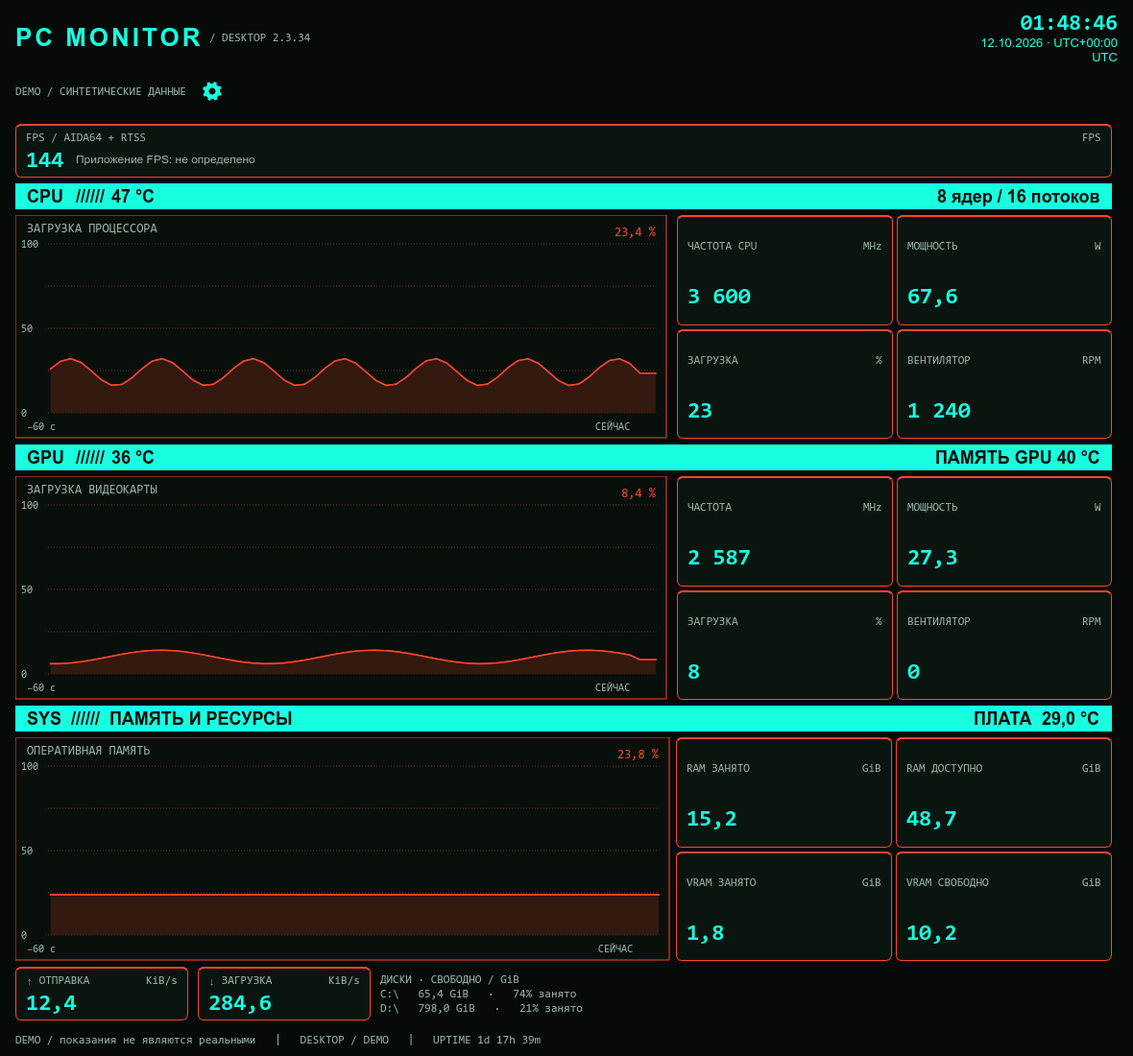
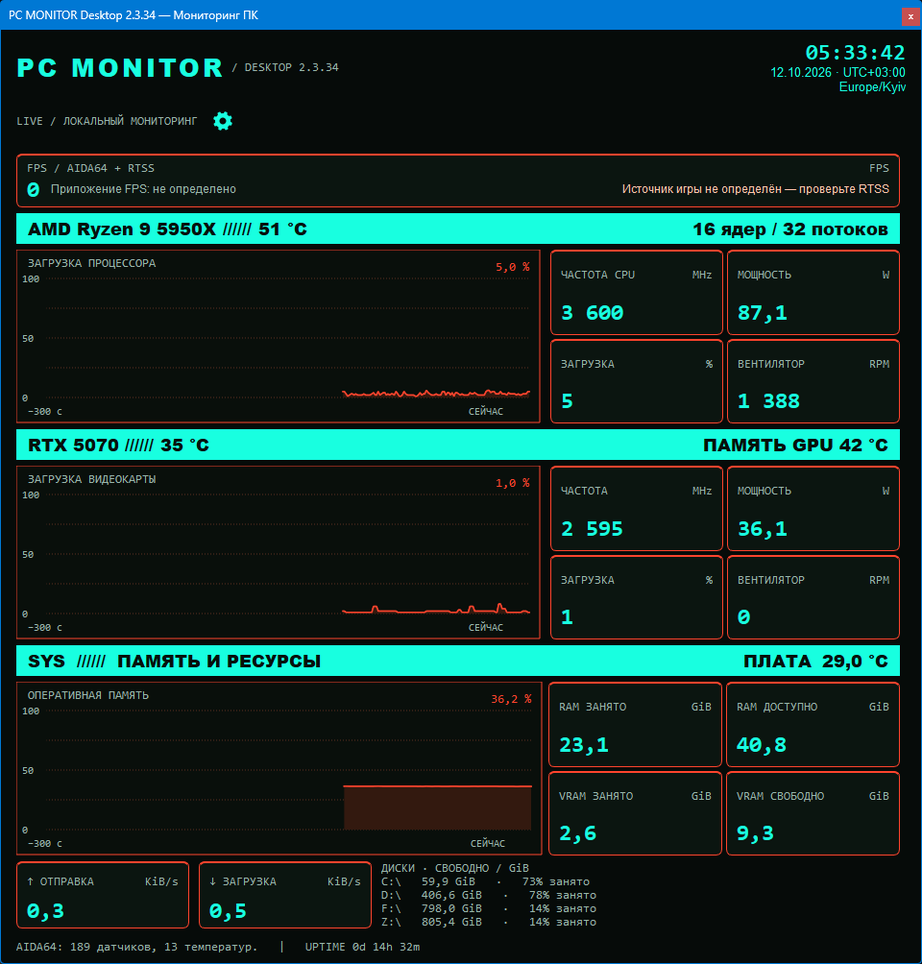
Update README and screenshots

diff --git a/README.md b/README.md
@@ -1,54 +1,244 @@
 # PC Monitor
 
-**2.3.34 · Windows 10/11 x64 · Разработчик: ZIKKURAT**
+**Версия 2.3.34 · Windows 10/11 x64 · Разработчик — ZIKKURAT**
 
-Локальный мониторинг CPU, GPU, температур, RAM/VRAM, сети, дисков и FPS. Нативный интерфейс PySide6: русский, украинский и английский языки, настраиваемые карточки, 10 тем и GIF-персонажи. Программа не отправляет телеметрию и не управляет разгоном или вентиляторами.
+Нативная программа для локального мониторинга компьютера: процессор, видеокарта, температуры, память, сеть, диски и FPS. Настраиваемые карточки, русский/украинский/английский интерфейс, цветовые и аниме-темы, GIF-персонажи и визуальные эффекты.
 
-> **Важно:** обычный `build_windows.bat` после успешной установки EXE **полностью удаляет распакованную папку исходников**. Архивы и личные файлы храните вне неё. Для Git-клона/разработки используйте **`build_windows.bat --keep-sources`**.
+**[Скачать выпуск](https://github.com/ZIKKURAToffc/PC-Monitor/releases)** · [Подробная установка](docs/INSTALL.md) · [Руководство пользователя](docs/USAGE.md) · [Все параметры](docs/PARAMETERS.md) · [Решение проблем](docs/TROUBLESHOOTING.md)
 
-![Обзор ресурсов](docs/images/overview.png)
+> **Важно:** обычный `build_windows.bat` после успешной сборки и установки EXE **удаляет всю распакованную папку исходников**. ZIP и личные файлы храните вне неё. Для Git-клона и разработки используйте **`build_windows.bat --keep-sources`**.
 
-## Быстрый старт
+## Возможности
 
-### Готовый EXE
+- **CPU:** температура, частота, загрузка, мощность, обороты вентилятора и график загрузки.
+- **GPU:** основная температура, температура видеопамяти, частота ядра, загрузка, мощность и вентилятор.
+- **Система:** температура материнской платы, занятая/доступная RAM и VRAM, сеть и свободное место на дисках.
+- **FPS:** чтение опубликованного показания, в том числе AIDA64/RTSS, и имени приложения из доступных метаданных RTSS.
+- **Настройка панели:** выбор совместимого источника, изменение подписи, скрытие показателя и до 128 собственных карточек.
+- **Оформление:** 10 тем, 16 персонажей; отдельное отключение персонажей, эффектов и анимации.
+- **Окно:** сохранение положения/размера, перетаскивание за шапку, полный экран без рамки, режим поверх других окон и трей.
+- **Дополнительно:** добровольный автозапуск после входа Windows, экспорт JSON, диагностика и локальный журнал ошибок.
 
-1. Откройте **Releases** этого репозитория и скачайте приложенный автором `PC-Monitor.exe`, если он опубликован. GitHub **Source code (zip)** содержит исходники, не установщик.
-2. Сохраните EXE в постоянную папку, например `D:\PC-Monitor\PC-Monitor.exe`, и запустите. Python для готового EXE не нужен.
-3. В **⚙ → Подключить датчики** настройте AIDA64 либо LHM.
-4. Для FPS дополнительно настройте RTSS и экспорт FPS в AIDA64.
+Наличие конкретного датчика зависит от оборудования, драйверов и внешнего источника. Программа не управляет охлаждением, напряжением или разгоном и не отправляет телеметрию.
 
-### Сборка из исходников
+## Скриншоты
 
-1. Установите **Python 3.10+ x64** с доступом из PATH; рекомендован проверенный Python 3.13.
-2. Распакуйте исходники в отдельную папку, например `D:\Downloads\pc-monitor-desktop-v2.3.34`. **Не распаковывайте прямо в `D:\PC-Monitor`: это папка назначения EXE.**
-3. Запустите **build_windows.bat**. Если проект нужно сохранить, выполните **`build_windows.bat --keep-sources`** из терминала.
-4. EXE появится в **`X:\PC-Monitor\PC-Monitor.exe`**, где X — диск проекта. Создаётся ярлык; временная среда сборки очищается.
+### Главная панель
 
-При обычной успешной сборке исходники удаляются. При ошибке компиляции/копирования они остаются; при блокировке удаления выводится предупреждение. Интернет нужен для установки зависимостей при сборке, но не для локального чтения датчиков.
+Локальные показания CPU/GPU, память, сеть и диски. Значения на снимке — пример, а не гарантированные показания для любого ПК. FPS = 0 означает, что источник передал ноль; это не расчёт по загрузке GPU.
 
-[Подробная установка](docs/INSTALL.md)
+![Главная панель PC Monitor 2.3.34](docs/images/overview.png)
 
-## Управление и возможности
+### Меню управления
 
-Все команды — в меню **⚙**. **F11** — полный экран, **Escape** — выход из него, **Space** — пауза/продолжение. Окно перемещается за шапку и запоминает положение/размер.
+Все основные действия находятся в меню шестерёнки: разделы, пауза, экспорт, подключение датчиков, настройка панели, общий конфиг, полный экран и компактный режим.
 
-- Частота, загрузка, мощность, температуры и вентиляторы CPU/GPU при наличии источника.
-- Температура памяти GPU и платы, история загрузки, подробные таблицы датчиков.
-- Выбор источников, переименование и скрытие карточек; до 128 своих карточек.
-- Имя приложения RTSS при доступных метаданных; FPS не вычисляется из загрузки GPU.
-- Видимое окно с треем, режим поверх окон, добровольный автозапуск после входа Windows.
-- Экспорт JSON, локальная диагностика; отключаемые анимация, персонажи и эффекты.
+![Меню управления PC Monitor](docs/images/menu.png)
 
-[Руководство пользователя](docs/USAGE.md) · [Все параметры](docs/PARAMETERS.md) · [Решение проблем](docs/TROUBLESHOOTING.md)
+### Общие настройки
 
-## Ограничения
+Язык, названия оборудования, оформление, интервалы обновления, история, порог температуры, Topmost и автозапуск.
 
-AIDA64/LHM/RTSS и драйверы не входят в EXE. Наличие датчиков зависит от оборудования и экспорта. **«—» — недоступное значение; 0 — опубликованный ноль.** Частая перерисовка не ускоряет внешний источник. Совместимость RTSS с играми/античитом не гарантируется; приложение само не внедряется в процессы игры.
+![Общие настройки PC Monitor](docs/images/settings.png)
 
-Проверено **372 автоматическими тестами**. Реальную Windows-компиляцию и живые Windows-источники в среде разработки этого пакета не запускали: перед релизом выполните [Windows-чек-лист](AUDIT-2.3.34.md). Linux используется для проверки исходников; Windows-источники/сборка EXE на нём недоступны.
+### Датчики панели
 
-## Разработка и публикация
+Выбор источника каждого показателя. Списки обновляются автоматически; изменения применяются кнопкой **Применить**.
 
-[Тестирование](TESTING.md) · [Изменения](CHANGELOG.md) · [Публикация на GitHub](docs/PUBLISHING.md) · [Источники изображений/GIF](ASSET-CREDITS.md)
+![Назначение датчиков панели PC Monitor](docs/images/panel-sensors.png)
 
-**Лицензия кода пока не выбрана автором.** Публичный GitHub не означает автоматически MIT/open source. Права на аниме-изображения/GIF принадлежат сторонним правообладателям: ссылки на источники не являются разрешением на распространение. Перед публичным выпуском выберите лицензию собственного кода и урегулируйте права на материалы либо замените их разрешёнными.
+### Выбор стиля
+
+Предпросмотр оформления и переключатели персонажей, эффектов и анимации. Числа в предпросмотре стиля — демонстрационные, не текущие аппаратные измерения.
+
+![Выбор стиля интерфейса PC Monitor](docs/images/style-picker.png)
+
+## Что требуется для корректной работы
+
+| Что установить | Когда требуется |
+|---|---|
+| **Windows 10/11 x64** | Основная платформа готового EXE. |
+| **Драйверы чипсета/материнской платы и видеокарты** | Используйте подходящие актуальные драйверы производителя оборудования. |
+| **AIDA64 Extreme или LibreHardwareMonitor** | Источник аппаратных температур, мощности и вентиляторов. Для этих показаний оба одновременно не обязательны. |
+| **RTSS + экспорт FPS в AIDA64** | Стандартный путь отображения FPS в играх для этой версии. |
+| **Python 3.10+ x64 и интернет** | Только для сборки/запуска исходников. Для готового EXE Python не нужен. |
+
+Основные данные ОС — загрузка CPU, RAM, сеть и свободное место — собираются программой через psutil. Темы, GIF и необходимые Python/Qt-библиотеки входят в собранный EXE. **AIDA64/LHM/RTSS и драйверы в EXE не входят** и устанавливаются отдельно.
+
+**MSI Afterburner не является обязательным требованием PC Monitor.** Если RTSS установлен вместе с ним, для FPS важны работа самого RTSS и экспорт в AIDA64.
+
+Внешние источники должны оставаться запущенными. Автозапуск PC Monitor не запускает AIDA64/LHM/RTSS за пользователя.
+
+## Установка
+
+### Вариант 1 — готовый EXE
+
+1. Откройте **[Releases](https://github.com/ZIKKURAToffc/PC-Monitor/releases)** и выберите нужную версию.
+2. Скачайте прикреплённый **PC-Monitor.exe** из **Assets**, если автор его опубликовал. **Source code (zip)** — исходники, не готовый установщик.
+3. Поместите EXE в постоянную папку, например `D:\PC-Monitor\PC-Monitor.exe`.
+4. Запустите двойным щелчком и настройте источник через **⚙ → Подключить датчики**.
+
+Python и компиляция не нужны. Не запускайте файл из самого ZIP. Для распаковки встроенных onefile-ресурсов программа использует системный TEMP, поэтому доступ к нему необходим. Ярлык после скачивания отдельного EXE можно создать вручную: сам EXE его не создаёт.
+
+### Вариант 2 — сборка и установка через BAT
+
+1. Скачайте **Source code (zip)** из Release либо исходники через **Code → Download ZIP**.
+2. Установите **Python 3.10+ x64**, включив **Add Python to PATH**. Рекомендован Python 3.13, с которым проверялись тесты.
+3. Сохраните ZIP вне будущей папки исходников.
+4. Распакуйте проект отдельно, например в `D:\Downloads\PC-Monitor-2.3.34`.
+5. Откройте распакованную папку и запустите **build_windows.bat**.
+6. Дождитесь окончания; интернет нужен для установки зависимостей.
+
+Сценарий автоматически:
+
+- создаёт временную среду Python;
+- устанавливает зависимости и PyInstaller;
+- собирает один **PC-Monitor.exe** с ресурсами;
+- проверяет целостность копии перед заменой прежнего EXE;
+- устанавливает файл в **`X:\PC-Monitor\PC-Monitor.exe`**, где X — диск проекта;
+- создаёт или обновляет ярлык на рабочем столе текущего пользователя;
+- очищает временные файлы сборки;
+- после успешной обычной сборки **удаляет всю распакованную папку исходников**.
+
+Например, проект на диске D: → **`D:\PC-Monitor\PC-Monitor.exe`**.
+
+> **Не распаковывайте исходники прямо в `X:\PC-Monitor`: это папка назначения EXE. Всё внутри удаляемой source-папки — включая .git, старую .venv, помещённые туда архивы и личные файлы — может быть удалено. Сохраняйте резервные ZIP снаружи.**
+
+При ошибке компиляции/копирования исходники и предыдущий установленный EXE сохраняются. Если Windows блокирует очистку, сценарий сообщает об этом; может остаться часть исходной папки. Ошибка создания ярлыка не отменяет успешную установку EXE.
+
+Для записи в корень диска может понадобиться дополнительное право. При отказе доступа можно запустить доверенный BAT от администратора. Не отключайте антивирус или защиту ОС ради сборки. UNC/сетевой путь проекта не поддерживается: используйте локальный диск с буквой.
+
+### Сборка с сохранением исходников
+
+Откройте терминал в папке проекта и выполните:
+
+```bat
+build_windows.bat --keep-sources
+```
+
+EXE и ярлык будут созданы, временная среда очистится, но проект останется. **Для клонированного Git-репозитория используйте этот вариант**, иначе обычная успешная сборка удалит репозиторий вместе с `.git`.
+
+### Запуск исходников без компиляции
+
+**start_windows.bat** создаёт `.venv`, устанавливает зависимости и запускает программу из исходников. Этот способ не создаёт готовый onefile-EXE и не удаляет проект. Для сообщений консоли используйте **debug_windows.bat**.
+
+Для демонстрации после установки зависимостей:
+
+```bat
+.venv\Scripts\python.exe desktop.py --demo
+```
+
+**DEMO — синтетические данные, не реальные датчики.**
+
+## Подключение датчиков
+
+### AIDA64 Extreme
+
+Интеграция ориентирована на **AIDA64 Extreme 8.00.8000**. Другие выпуски требуют проверки совместимости экспорта; версия AIDA64 по XML не определяется. Используйте законно установленный источник.
+
+1. Запустите AIDA64.
+2. Откройте **Preferences → Hardware Monitoring → External Applications**.
+3. Включите **Enable shared memory**.
+4. Отметьте нужные температуры, частоты, загрузку, мощность и RPM.
+5. Оставьте AIDA64 открытой.
+6. В PC Monitor: **⚙ → Подключить датчики → AIDA64 Shared Memory → Применить**.
+7. На вкладке **Датчики панели** назначьте показатели и нажмите **Применить**.
+
+Порт и пароль для Shared Memory не нужны. При отказе доступа проверьте пользователя и уровни прав обеих программ, не отключая защиту.
+
+### LibreHardwareMonitor
+
+Официальный проект: **[LibreHardwareMonitor](https://github.com/LibreHardwareMonitor/LibreHardwareMonitor)**.
+
+1. Запустите LHM и проверьте наличие датчиков в его окне.
+2. Включите **Remote Web Server → Run**. Стандартный порт — **8085**.
+3. В PC Monitor выберите **LHM: только HTTP** для новых версий.
+4. Укажите порт и, если включена Authentication, пользователя/пароль.
+5. Нажмите **Применить** и оставьте LHM запущенным.
+
+Чтение только с `http://127.0.0.1:<порт>/data.json`, без proxy и HTTP-перенаправлений. Пароль используется в текущем сеансе, не сохраняется. Не открывайте сервер LHM в интернет. WMI предназначен для совместимых старых выпусков; в новых LHM используйте HTTP.
+
+### FPS — RTSS и AIDA64
+
+1. Запустите RTSS и игру. Профиль должен относиться к EXE игры, не только к лаунчеру; detection level не None.
+2. Убедитесь, что RTSS сам показывает ненулевой FPS.
+3. В AIDA64 включите Shared Memory и экспорт **RTSS FPS / SRTSSFPS**.
+4. В **Датчики панели** выберите для FPS **Авто** либо подходящий **RTSS FPS** с единицей FPS.
+5. Нажмите **Применить**, проверьте вкладку **FPS** и оставьте RTSS/AIDA64 запущенными.
+
+LHM сам по себе не обеспечивает стандартный FPS-путь этой версии. Если RTSS показывает 0, PC Monitor не может восстановить отсутствующие кадры. Некоторые игры/античиты ограничивают мониторинг: не обходите ограничения, используйте разрешённый встроенный счётчик.
+
+Имя приложения читается отдельно из RTSS. AIDA64 не подтверждает связь общего экспортированного FPS с конкретным PID; несколько активных приложений не приводят к случайному выбору одного имени. В подписи расширение `.exe` скрывается.
+
+## Управление
+
+| Действие | Как использовать |
+|---|---|
+| Открыть команды | Кнопка **⚙** рядом со строкой LIVE/DEMO. |
+| Сменить раздел | **Разделы → Обзор ресурсов / Температуры / Все датчики**. |
+| Пауза / продолжить | Меню или **Space**. Замораживается отображение; фоновый сбор может продолжаться. |
+| Полный экран | Меню или **F11**; **Escape** возвращает обычное окно. |
+| Переместить окно | В обычном режиме перетаскивайте за название, часы или свободную шапку. |
+| Компактный режим | Пункт **Компактно** меняет плотность элементов, не данные. |
+| Экспорт | **Экспорт JSON** сохраняет текущий отображаемый снимок и историю. |
+| Настроить карточки | **Панель / датчики**: источник, подпись, скрытие и свои карточки. |
+| Поднять окно из трея | Нажмите значок либо **Показать окно** в меню трея. |
+| Завершить работу | Крестик окна или **Выход** в трее — это полное завершение, не скрытие окна. |
+
+В Windows при доступном трее отдельная кнопка панели задач скрывается, но окно остаётся видимым. При недоступном трее используется обычное окно с панелью задач.
+
+Положение и размер сохраняются автоматически. При отключении монитора окно возвращается в видимую область. Следующий запуск после закрытия в полном экране не включает полный экран автоматически.
+
+## Основные настройки
+
+В **⚙ → Настройки** изменения применяются кнопкой **Сохранить**.
+
+| Параметр | Значения / стандарт | Назначение |
+|---|---|---|
+| Ник / название | До 48 символов; **PC MONITOR** | Подпись приложения. |
+| Язык | Русский, Українська, English; **Русский** | Язык интерфейса, не часовой пояс. |
+| Стиль | 10 тем; **Классический** | Открывает отдельное окно выбора оформления. |
+| Названия CPU/GPU/платы | До 80 символов; пусто | Пользовательские подписи, не выбор оборудования. Имя платы заменяет SYS. |
+| Обновление интерфейса | 250, **500**, 1000, 2000, 5000 мс | Перерисовка доступного снимка. |
+| Опрос датчиков | 250, **500**, 1000, 2000, 3000, 5000 мс | Желаемая частота аппаратного чтения. |
+| Окно истории | **60**, 120, 300 секунд | Видимый диапазон графиков. |
+| Порог температуры | 30–120 °C; **85 °C** | Визуальное выделение, не аппаратная защита. |
+| Поверх других окон | По умолчанию выключено | Режим Topmost. |
+| Запускать вместе с Windows | По умолчанию выключено | Запуск готового EXE после входа текущего пользователя. |
+
+Быстрый опрос не ускоряет публикацию AIDA64/LHM. NVIDIA опрашивается не чаще раза в секунду, WMI — не чаще раза в две секунды. Часы/дата/часовой пояс берутся из ОС; отдельного ручного выбора зоны нет.
+
+Темы: **Классический, Арктический синий, Янтарный, Фиолетовый неон, Фрирен, Ван Пис, Ванпанчмен, Наруто, Тетрадь смерти, Атака титанов**. Персонажи, эффекты и анимация переключаются отдельно. Портреты скрываются при нехватке свободного места. **Применить стиль** сохраняет оформление отдельно: последующая отмена общих настроек не откатывает уже применённый стиль.
+
+Полное описание всех **21 стандартного назначения**, единиц, источников, собственных карточек, тем и аргументов запуска — в **[docs/PARAMETERS.md](docs/PARAMETERS.md)**.
+
+## Автозапуск, обновление и удаление
+
+Автозапуск включается только в готовом Windows EXE через настройки и **Сохранить**. Он не включается самой сборкой и не запускает внешние источники. После переноса EXE повторно сохраните включённый автозапуск из новой папки.
+
+Перед обновлением полностью закройте монитор. Замените EXE в постоянной папке; настройки и положение хранятся отдельно от исходников. Перед удалением отключите автозапуск, затем удалите EXE и ярлык.
+
+## Если что-то не работает
+
+- **«—»** — датчик недоступен/несовместим; **0** — опубликованный ноль. 0 RPM может быть штатным Fan Stop.
+- Выбранный пропавший датчик не заменяется автоматически; выберите совместимый ID или явно переключите на **Авто**.
+- Температура памяти GPU не заменяется Hotspot; не все GPU её публикуют.
+- Для FPS проверяйте сначала RTSS, затем экспорт AIDA64 и назначение карточки.
+- Журнал неожиданных Python-ошибок: **`%LOCALAPPDATA%\PC-Monitor\logs\errors.log`**; резервный путь — `PC-Monitor-logs` в TEMP. Это не журнал всех нативных аварий драйверов/Qt.
+
+Подробная помощь: **[docs/TROUBLESHOOTING.md](docs/TROUBLESHOOTING.md)**. Для сообщения об ошибке: **[Issues](https://github.com/ZIKKURAToffc/PC-Monitor/issues)**. Укажите версию, Windows, источник, шаги и очищенную диагностику. Перед публикацией файлов удалите нежелательные личные сведения, пути/hostname и секреты.
+
+## Проверка и разработка
+
+- **372 автоматических теста прошли** в Linux/Qt offscreen, включая 52 проверки аудита.
+- Production-модули прошли Pyflakes без замечаний.
+- Это не гарантия работы каждого драйвера, игры и аппаратного датчика. Нативные Windows-сценарии требуют отдельной проверки; предоставленные скриншоты показывают интерфейс на Windows, но не заменяют полный аппаратный тест.
+- GitHub Actions подготовлен для Linux/offscreen-тестов; зелёный CI не подтверждает все Windows API.
+
+[Тестирование](TESTING.md) · [Отчёт аудита](AUDIT-2.3.34.md) · [История изменений](CHANGELOG.md) · [Публикация релиза](docs/PUBLISHING.md)
+
+## Лицензия и сторонние материалы
+
+Разработчик — **ZIKKURAT**. Лицензия собственного кода пока не выбрана автором; отсутствие LICENSE не означает автоматически MIT или свободное использование.
+
+Аниме-персонажи, PNG и GIF принадлежат сторонним правообладателям. Программа не является официальным продуктом соответствующих аниме. **[ASSET-CREDITS.md](ASSET-CREDITS.md)** содержит источники и атрибуцию, не разрешение на распространение. Перед публичным выпуском нужно выбрать лицензию своего кода и урегулировать права на материалы либо заменить их разрешёнными.
